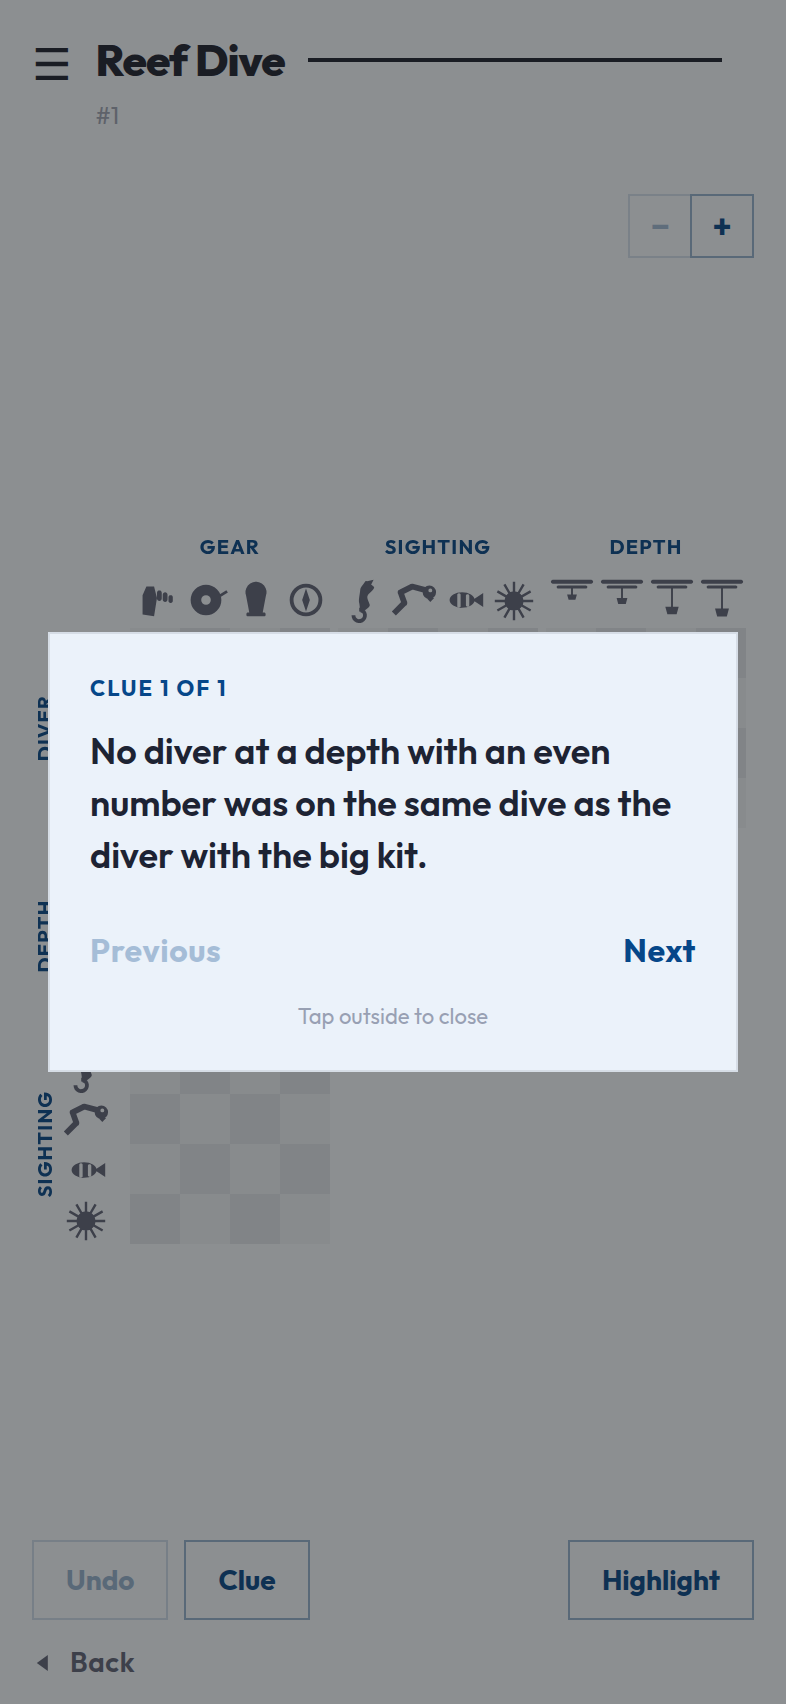
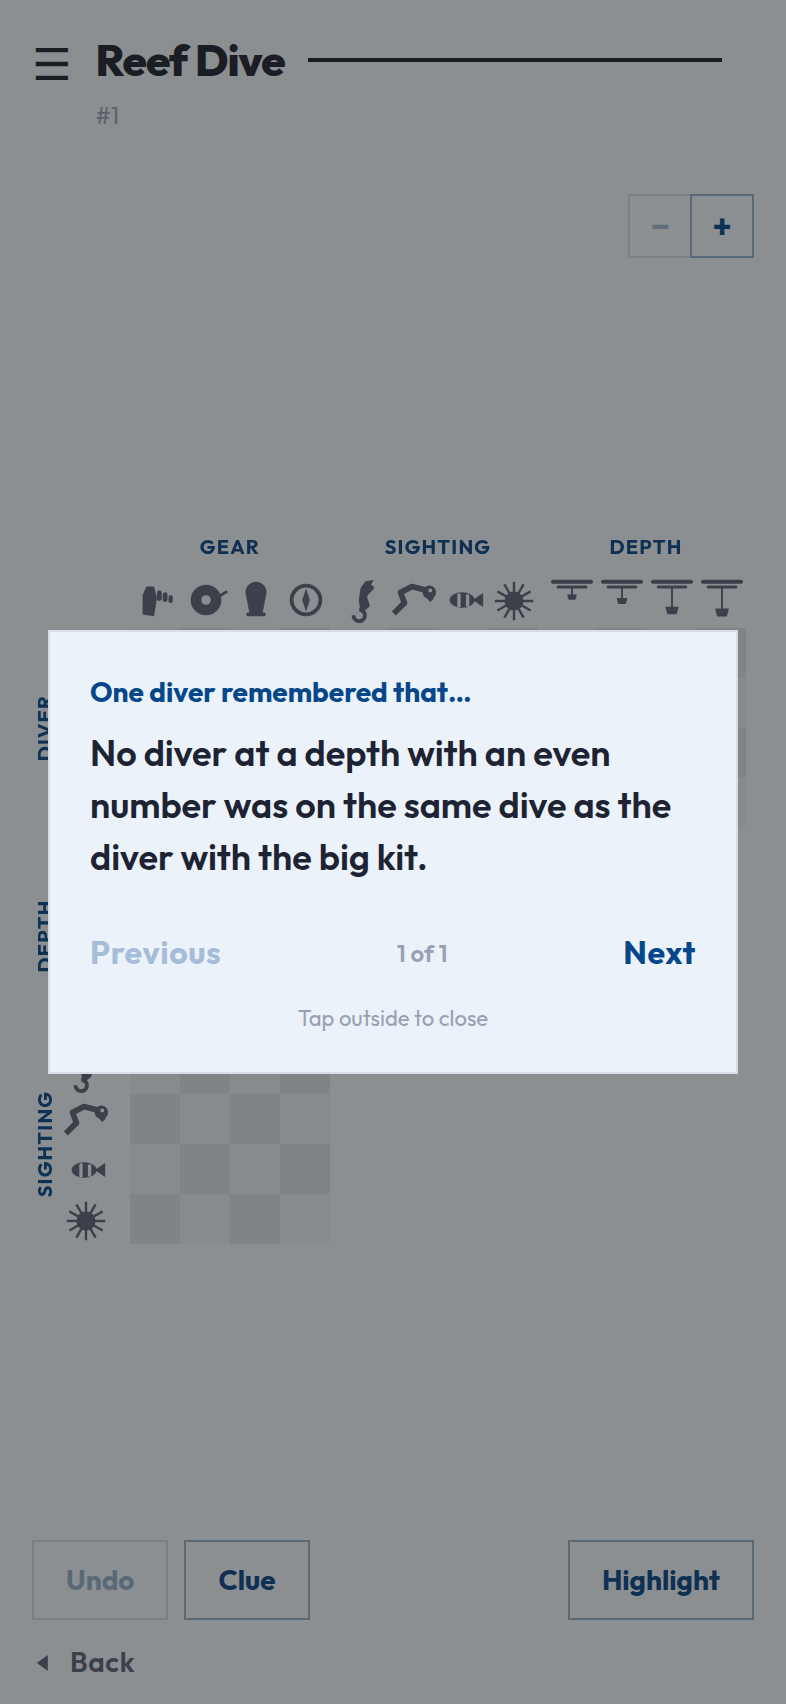
Say who told you
A clue arrived as a bare fact, and a bare fact is nobody's. Each now
carries a line above it saying who is supposed to have said it — "One
diver remembered that…", "Word went round that…", "It was noted at the
time that…" — which makes the puzzle something people are talking about
rather than a table with the numbers filed off.

Fourteen lines in `src/data/openers.ts`, four of which name somebody
using `{noun}`: the theme's own word for one member of its anchor set,
which every theme already carries for its clue wording. So a reef puzzle
says "One diver remembered", a café one "One customer remembered", and
nothing new had to be written into the themes.

Which line a clue gets comes from the puzzle's seed and the clue's own
index rather than being rolled when the window opens. Paging back to a
clue brings back the clue you read, and a game picked up tomorrow is the
game you left; nothing is stored, because the seed is enough to say it
again. An opener says who and never what, so it cannot help or mislead.

"Clue 1 of 3" moves off the top of the window and into the middle of the
pager, where the item card already keeps its count — which leaves the top
of the window to the puzzle's voice rather than the app's bookkeeping.

Claude-Session: https://claude.ai/code/session_01RrDehsX5bvPAsFa5dYERaj

diff --git a/src/components/CluePopup.tsx b/src/components/CluePopup.tsx
@@ -1,6 +1,7 @@
 import React from 'react';
 import { Modal, Pressable, StyleSheet, View } from 'react-native';
 
+import { clueOpener } from '../data/openers';
 import { describeClue } from '../puzzle/describe';
 import type { Puzzle } from '../puzzle/types';
 import { feedback } from '../ui/feedback';
@@ -39,6 +40,12 @@ interface Props {
  * makes, and the same cost. Reading a clue is the one decision the game counts,
  * so it cannot be got round by walking forwards: going back through what you
  * have already been told is free, going on is not.
+ *
+ * Above the clue is who is supposed to have said it — "One diver remembered
+ * that…" — which turns a bare fact into something people are talking about.
+ * Which clue you are on goes between Previous and Next, where the item card
+ * already keeps its count, so the top of the window is the puzzle's voice
+ * rather than the app's bookkeeping.
  */
 export function CluePopup({
   visible,
@@ -68,8 +75,8 @@ export function CluePopup({
       >
         {/* Taps inside the window stay inside it. */}
         <Pressable style={[styles.card, shadow.raised]} onPress={() => undefined}>
-          <Text style={[styles.eyebrow, { color: palette.accent }]}>
-            {index === null ? 'No clue yet' : `Clue ${position} of ${total}`}
+          <Text style={[styles.opener, { color: palette.accent }]}>
+            {index === null ? 'Nobody has said anything yet…' : `${clueOpener(puzzle, index)}…`}
           </Text>
 
           <Text style={styles.clue} accessibilityLabel="Clue in play">
@@ -79,7 +86,12 @@ export function CluePopup({
           </Text>
 
           <View style={styles.pager}>
-            <Pager previousDisabled={previousDisabled} onPrevious={onPrevious} onNext={onNext} />
+            <Pager
+              previousDisabled={previousDisabled}
+              middle={index === null ? undefined : `${position} of ${total}`}
+              onPrevious={onPrevious}
+              onNext={onNext}
+            />
           </View>
 
           <Text style={styles.dismiss}>Tap outside to close</Text>
@@ -106,11 +118,13 @@ const makeStyles = (palette: Palette) =>
       borderColor: palette.line,
       padding: space(5),
     },
-    eyebrow: {
-      fontSize: 11,
+    opener: {
+      // Spoken rather than filed: sentence case and a little larger than the
+      // labels elsewhere, because it is the first half of what is being read
+      // rather than a heading over it.
+      fontSize: 14,
+      lineHeight: 20,
       fontWeight: '700',
-      letterSpacing: 1,
-      textTransform: 'uppercase',
     },
     clue: {
       // No line limit: the window is here so that the longest clue a puzzle can
@@ -119,7 +133,7 @@ const makeStyles = (palette: Palette) =>
       lineHeight: 26,
       fontWeight: '600',
       color: palette.ink,
-      marginTop: space(3),
+      marginTop: space(2),
     },
     pager: {
       marginTop: space(4),

diff --git a/src/data/openers.ts b/src/data/openers.ts
@@ -1,0 +1,48 @@
+/**
+ * The line above a clue: who is supposed to have said it.
+ *
+ * A clue is a bare fact — "the diver with green eyes stands taller than the
+ * Foxglove grower" — and a bare fact is nobody's. Putting somebody in front of
+ * it makes the puzzle a thing people are talking about rather than a table with
+ * the numbers filed off, and costs nothing: the opener says who, never what, so
+ * it cannot help or mislead.
+ *
+ * `{noun}` is the theme's own word for one member of its anchor set — diver,
+ * gardener, astronaut — which every theme already carries for its clue wording.
+ * The ones that use it sound like the puzzle; the ones that do not sound like a
+ * bystander, and both belong.
+ */
+import { createRng } from '../puzzle/rng';
+import type { Puzzle } from '../puzzle/types';
+
+export const OPENERS: string[] = [
+  'Someone commented that',
+  'An observer mentioned that',
+  'One {noun} remembered that',
+  'Another {noun} was sure that',
+  'Word went round that',
+  'It was noted at the time that',
+  'Somebody swore blind that',
+  'One {noun} let slip that',
+  'The record shows that',
+  'A bystander insisted that',
+  'Nobody disputes that',
+  'One {noun} recalled that',
+  'It is generally agreed that',
+  'Another {noun} put it that',
+];
+
+/**
+ * The opener for one clue, which is the same one every time it is read.
+ *
+ * Drawn from the puzzle's seed and the clue's own index rather than rolled when
+ * the window opens: paging back to a clue should bring back the clue you read,
+ * and a game picked up tomorrow should be the game you left. Nothing about it
+ * is stored — like everything else here, the seed is enough to say it again.
+ */
+export function clueOpener(puzzle: Puzzle, index: number): string {
+  // Spread apart so neighbouring clues do not draw neighbouring openers; the
+  // multiplier is a prime, which is all it has to be.
+  const rng = createRng(puzzle.seed + (index + 1) * 7919);
+  return rng.pick(OPENERS).replace('{noun}', puzzle.categories[0].noun);
+}

diff --git a/src/data/__tests__/openers.test.ts b/src/data/__tests__/openers.test.ts
@@ -1,0 +1,51 @@
+import { generatePuzzle } from '../../puzzle/generator';
+import { SIZES } from '../sizes';
+import { THEMES } from '../themes';
+import { clueOpener, OPENERS } from '../openers';
+
+const puzzle = generatePuzzle({ theme: THEMES, size: SIZES[1], seed: 7 });
+
+describe('clueOpener', () => {
+  it('gives a clue the same opener every time it is read', () => {
+    for (let index = 0; index < puzzle.clues.length; index++) {
+      expect(clueOpener(puzzle, index)).toBe(clueOpener(puzzle, index));
+    }
+  });
+
+  it('is decided by the seed, so the same puzzle says the same thing again', () => {
+    const again = generatePuzzle({ theme: THEMES, size: SIZES[1], seed: 7 });
+    expect(clueOpener(again, 0)).toBe(clueOpener(puzzle, 0));
+  });
+
+  it('leaves no slot unfilled, whatever the theme', () => {
+    for (const theme of THEMES) {
+      const themed = generatePuzzle({ theme, size: SIZES[1], seed: 3 });
+      for (let index = 0; index < themed.clues.length; index++) {
+        expect(clueOpener(themed, index)).not.toContain('{');
+      }
+    }
+  });
+
+  it('speaks the theme’s own word for one of its cast', () => {
+    const themed = generatePuzzle({ theme: THEMES[3], size: SIZES[1], seed: 11 });
+    const noun = themed.categories[0].noun;
+    const spoken = OPENERS.filter((opener) => opener.includes('{noun}')).map((opener) =>
+      opener.replace('{noun}', noun),
+    );
+    // Every opener that names somebody names one of this theme's own.
+    for (const opener of spoken) expect(opener).toContain(noun);
+  });
+
+  it('reaches more than one opener across a puzzle', () => {
+    const seen = new Set<string>();
+    for (let index = 0; index < 40; index++) seen.add(clueOpener(puzzle, index));
+    expect(seen.size).toBeGreaterThan(3);
+  });
+
+  it('leads into a sentence rather than finishing one', () => {
+    for (const opener of OPENERS) {
+      expect(opener).not.toMatch(/[.!?]$/);
+      expect(opener[0]).toBe(opener[0].toUpperCase());
+    }
+  });
+});

diff --git a/README.md b/README.md
@@ -168,7 +168,7 @@ images in the same commit.
 |---|---|---|
 | <img src="docs/screenshots/01-start.png" width="230" alt="Start page"><br>**1. Start** — the name on a panel of the link colour, **Daily** and **Play** under it with a rule between, and the two side doors at the foot. | <img src="docs/screenshots/02-setup.png" width="230" alt="The difficulties"><br>**2. Difficulty** — the same panel, the same half; only what is under it changes. | <img src="docs/screenshots/03-numbers.png" width="230" alt="The numbered puzzles"><br>**3. Numbered puzzles** — every puzzle at that difficulty, counting from one, six to a page, each with a box that ticks when you finish it and your time beside it. |
 | <img src="docs/screenshots/04-daily.png" width="230" alt="Daily challenges"><br>**4. Daily** — today's four, one per difficulty. A finished one shows its time and opens the result instead of a board. | <img src="docs/screenshots/05-settings.png" width="230" alt="Settings screen"><br>**5. Settings** — seven names with a box or a slider against each, and nothing to read. | <img src="docs/screenshots/06-board.png" width="230" alt="The board"><br>**6. Grid** — a 4 × 4 puzzle as a 3 × 3 staircase of six grids, sized to fit the screen. |
-| <img src="docs/screenshots/07-menu.png" width="230" alt="Game menu"><br>**7. Puzzle settings** — behind the burger: the board pair and the colour, set the way the settings screen sets them, then starting this one over. | <img src="docs/screenshots/08-clue.png" width="230" alt="The clue window"><br>**8. Clue** — one clue at a time, in a window with the room to read it, and the pair that moves between the ones you have read. | <img src="docs/screenshots/09-highlight.png" width="230" alt="A clue lit up on the grids"><br>**9. Highlight** — the button at the bottom right lights every row and column the clue talks about. |
+| <img src="docs/screenshots/07-menu.png" width="230" alt="Game menu"><br>**7. Puzzle settings** — behind the burger: the board pair and the colour, set the way the settings screen sets them, then starting this one over. | <img src="docs/screenshots/08-clue.png" width="230" alt="The clue window"><br>**8. Clue** — one clue at a time, in a window with the room to read it, under a line saying who is supposed to have said it, and the pair that moves between the ones you have read. | <img src="docs/screenshots/09-highlight.png" width="230" alt="A clue lit up on the grids"><br>**9. Highlight** — the button at the bottom right lights every row and column the clue talks about. |
 | <img src="docs/screenshots/10-stuck.png" width="230" alt="A board that can no longer be solved"><br>**10. Out of reach** — asking for a new clue checks the board first, and stops with a window offering to rewind when the answer has been marked away. | <img src="docs/screenshots/11-item-card.png" width="230" alt="The card behind an item's picture"><br>**11. Item card** — tap any picture on the board to meet it, and page through the rest of its set. | <img src="docs/screenshots/12-solved.png" width="230" alt="A finished game"><br>**12. Solved** — the finish takes the screen: time, clues read, how it compares, the answer table. |
 | <img src="docs/screenshots/13-statistics.png" width="230" alt="Statistics screen"><br>**13. Statistics** — totals, bests by difficulty and the trend of recent solve times. | <img src="docs/screenshots/14-night.png" width="230" alt="Setup screen in night colours"><br>**14. Night** — the difficulties in night colours, with a game waiting behind **Continue**. | |
 
@@ -257,8 +257,14 @@ rest is the app behaving normally.
    **Previous** and **Next** on the card walk the rest of the set, since a
    description is a question about all of them rather than about the one whose
    picture was tapped.
-   **Clue** opens a window with one clue in it — the sentence and nothing else,
-   no badge for what kind it is — with **Previous** and **Next** under it.
+   **Clue** opens a window with one clue in it, under a line saying who is
+   supposed to have said it — "One diver remembered that…", "Word went round
+   that…" — drawn from the seed and the clue's own number, so it is the same
+   line every time that clue is read. The ones that name somebody use the
+   theme's own word for one of its cast. It says who, never what, so it cannot
+   help or mislead: a clue is a bare fact, and a bare fact is nobody's.
+   **Previous** and **Next** sit under it, with which clue you are on between
+   them.
    Previous walks back through the clues you have already read, which is free.
    Next walks forward through them and, at the end of them, asks for a new one:
    the same press, and the same cost, so reading a clue stays the one decision
@@ -366,6 +372,7 @@ scripts/icons/              the drawing kit, and one module per theme
 src/data/themes.ts          the five themes: categories, item pools with their
                             traits and descriptions, clue wording
 src/data/sizes.ts           the four sizes, and the difficulty each is called
+src/data/openers.ts         who is supposed to have said a clue
 src/puzzle/types.ts         puzzle, clue and theme model
 src/puzzle/rng.ts           seeded PRNG (a seed always rebuilds the same puzzle)
 src/puzzle/generator.ts     builds a solution, then a minimal clue set for it
@@ -594,8 +601,8 @@ last 200 boards.
 Winning adds a tab rather than covering the board. There is no tab bar during
 play — there is only the board to show — so the bar appears at the finish with
 **Grid** and **Solved** in it, `SolvedPanel` fills the body, and the win selects
-it. Everything the finish made pointless goes with it — the clue card and the Undo
-and clue buttons are hidden — and the board becomes read-only, because a stray tap on a finished grid would undo
+it. Everything the finish made pointless goes with it — the row of buttons is
+hidden — and the board becomes read-only, because a stray tap on a finished grid would undo
 the win, restart the clock and have the game counted a second time.
 
 The result offers nothing to press either. Another puzzle, a different
@@ -609,6 +616,16 @@ There is no clue list. **Clue** opens a window holding one clue, and **Next**
 past the end of the ones already read asks for another, which makes reading a
 clue a decision — and the number of them the statistics keep. Going back through
 what you have been told is free; going on is not.
+
+Above each one, `src/data/openers.ts` says who is supposed to have said it. The
+list is fourteen lines, four of which use `{noun}` — the theme's own word for
+one member of its anchor set, which every theme already carries for its clue
+wording, so a reef puzzle says "One diver remembered that…" and a café one says
+"One customer remembered that…". Which line a clue gets is drawn from the
+puzzle's seed and the clue's own index rather than rolled when the window opens:
+paging back to a clue brings back the clue you read, and a game picked up
+tomorrow is the game you left. Nothing is stored — the seed is enough to say it
+again. An opener says who and never what, so it cannot help or mislead.
 
 `src/game/clues.ts` decides when a clue is spent. `clueMarks` returns the
 squares one clue forces *given the board as it stands*, which is the same thing
